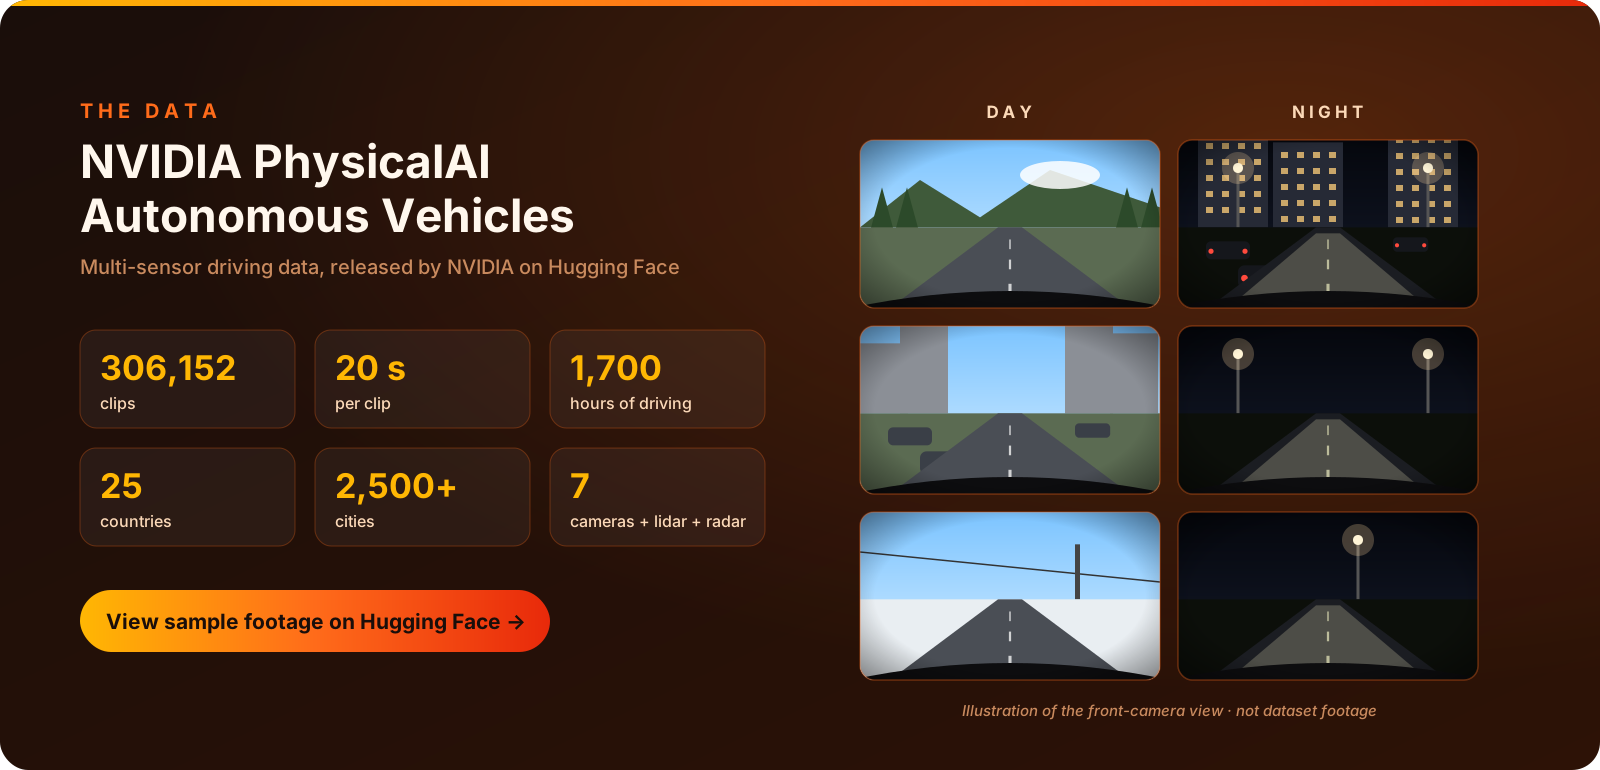
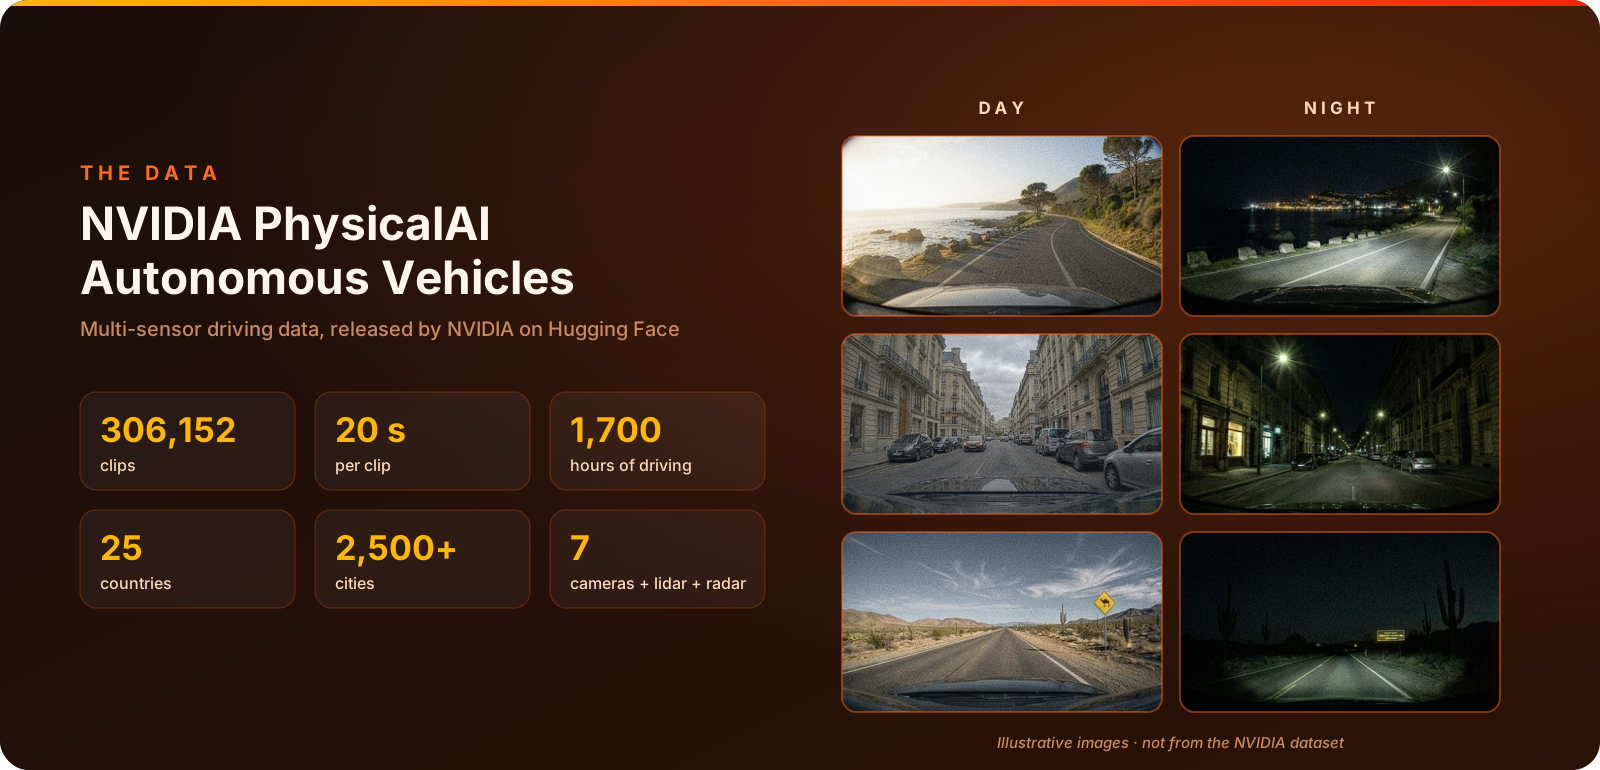
Data section: illustrative day/night images on the data card and a sample-footage button

Changed region(s): [[0.5, 0.1247, 0.9375, 0.9662], [0.0312, 0.187, 0.4688, 0.8727], [0.0625, 0.1247, 0.1562, 0.1558]]

diff --git a/README.md b/README.md
@@ -53,9 +53,9 @@ derived from the data itself, and **which kinds of information** drive those pre
 </p>
 
 <p align="center">
-  <img src="https://cdn-uploads.huggingface.co/production/uploads/667f467e563b0640e37fca79/t_yqQTwuTRFiiK8--mzm3.gif" alt="Mosaic of driving camera clips from the NVIDIA PhysicalAI Autonomous Vehicles dataset" width="100%">
-  <br>
-  <sub>Preview © NVIDIA, shown from the <a href="https://huggingface.co/datasets/nvidia/PhysicalAI-Autonomous-Vehicles">official dataset card</a>. No dataset files are stored in this repository.</sub>
+  <a href="https://cdn-uploads.huggingface.co/production/uploads/667f467e563b0640e37fca79/t_yqQTwuTRFiiK8--mzm3.gif">
+    <img src="docs/images/footage_button.png" alt="View sample footage on Hugging Face" width="380">
+  </a>
 </p>
 
 This project uses the [NVIDIA PhysicalAI Autonomous Vehicles](https://huggingface.co/datasets/nvidia/PhysicalAI-Autonomous-Vehicles) dataset. Access is gated: sign in to Hugging Face, accept NVIDIA's licence on the dataset page, then run the notebooks to download and process the clips yourself. The [NVIDIA Autonomous Vehicle Dataset License](https://huggingface.co/datasets/nvidia/PhysicalAI-Autonomous-Vehicles/blob/main/LICENSE.pdf) does not allow the dataset, or anything derived from it, to be redistributed, so camera frames, per-clip tables and the trained model are not included here.
